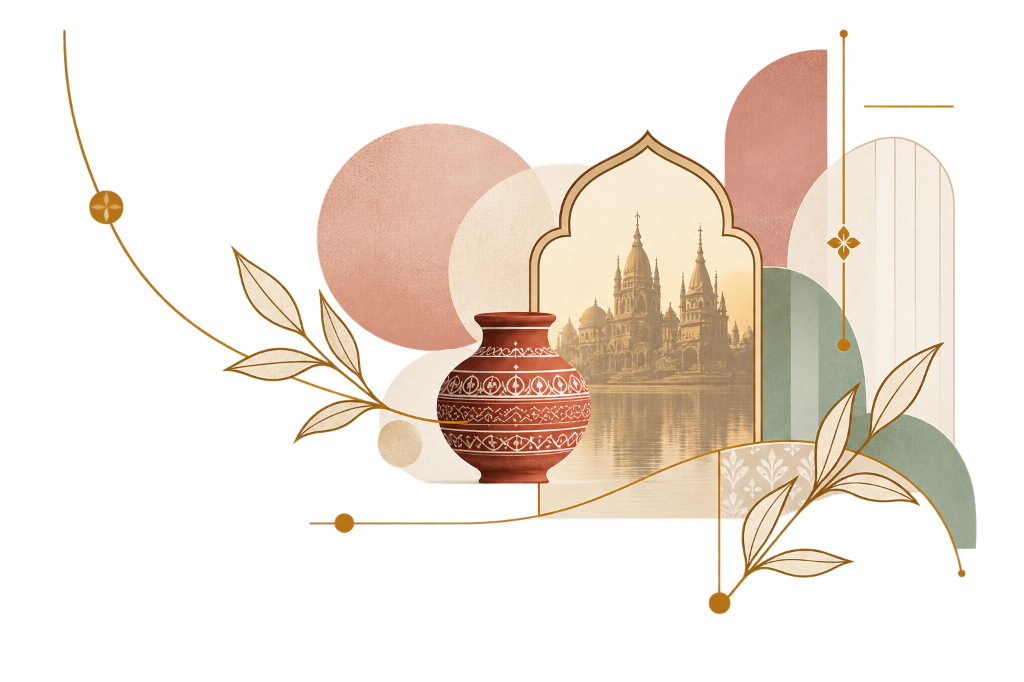
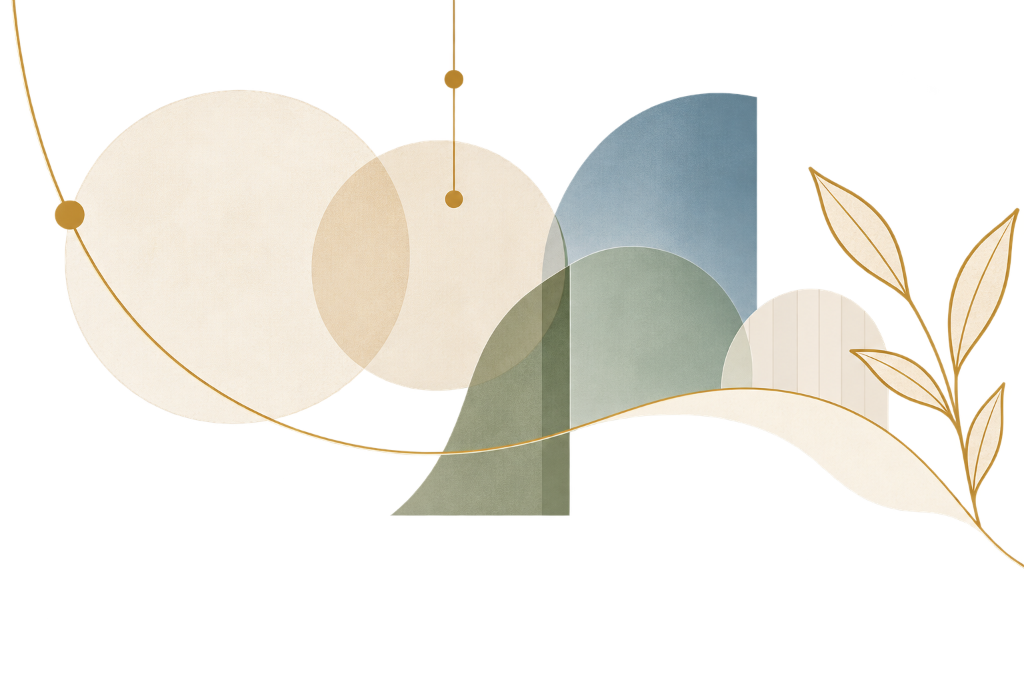
fix(projects): fix corner art placements, restore screen 2 artwork, and eliminate text overlap

diff --git a/src/pages/ProjectsPage.tsx b/src/pages/ProjectsPage.tsx
@@ -370,6 +370,22 @@ const ProjectsPage = () => {
           Learning takes different forms.
       ════════════════════════════════════════════════════════════════ */}
       <section id="skills-training-education" className="py-16 sm:py-20 lg:py-24 bg-background relative overflow-hidden">
+        {/* Decorative Corner Artworks for Screen 2 */}
+        <div className="absolute top-0 left-0 w-[220px] sm:w-[280px] lg:w-[320px] pointer-events-none select-none opacity-85 z-0">
+          <img
+            src="/images/projects/skills-art-left.png"
+            alt=""
+            className="w-full h-auto object-contain object-left-top"
+          />
+        </div>
+        <div className="absolute top-0 right-0 w-[380px] sm:w-[480px] lg:w-[580px] pointer-events-none select-none opacity-95 z-0">
+          <img
+            src="/images/projects/skills-art-right.png"
+            alt=""
+            className="w-full h-auto object-contain object-right-top"
+          />
+        </div>
+
         <div className="container mx-auto px-4 max-w-7xl relative z-10">
           
           {/* Section Header with Artwork & Quote Layout */}
@@ -404,8 +420,8 @@ const ProjectsPage = () => {
               </AnimeReveal>
             </div>
 
-            {/* Right Column: Abstract Art Composition & Editorial Quote */}
-            <div className="lg:col-span-5 relative flex flex-col justify-between items-end min-h-[220px]">
+            {/* Right Column: Editorial Quote & Cursive Calligraphy (Non-overlapping) */}
+            <div className="lg:col-span-5 relative flex flex-col justify-between items-end min-h-[200px]">
               {/* Top right label */}
               <div className="pl-3 border-l-2 border-[#D4AF37]/60 text-left mb-4 z-10">
                 <p className="text-[10px] font-mono tracking-[0.25em] font-bold text-[#8C6D46] uppercase leading-tight">
@@ -413,25 +429,16 @@ const ProjectsPage = () => {
                 </p>
               </div>
 
-              {/* Centered illustration background */}
-              <div className="absolute right-0 top-0 bottom-0 w-full max-w-[420px] pointer-events-none select-none opacity-90">
-                <img
-                  src="/images/projects/skills-header-art.png"
-                  alt="Abstract craft and botanical heritage artwork"
-                  className="w-full h-full object-contain object-right-top"
-                />
-              </div>
-
-              {/* Overlay Quote and Cursive Tagline */}
-              <div className="relative z-10 text-right pr-2 sm:pr-6 pt-4 mt-auto">
-                <div className="inline-block text-left mb-2">
-                  <p className="font-serif italic text-base sm:text-lg text-primary font-medium leading-snug">
-                    <span className="text-xl text-secondary mr-0.5 font-normal font-serif">“</span>
+              {/* Editorial Quote & Cursive Tagline with ample breathing room */}
+              <div className="relative z-10 text-right pr-2 sm:pr-6 mt-4 sm:mt-8">
+                <div className="inline-block text-left mb-3">
+                  <p className="font-serif italic text-base sm:text-lg lg:text-xl text-primary font-medium leading-snug">
+                    <span className="text-xl sm:text-2xl text-secondary mr-0.5 font-normal font-serif">“</span>
                     Different<br />
                     skills.<br />
                     Brighter<br />
                     tomorrows.
-                    <span className="text-xl text-secondary ml-0.5 font-normal font-serif">”</span>
+                    <span className="text-xl sm:text-2xl text-secondary ml-0.5 font-normal font-serif">”</span>
                   </p>
                 </div>
                 <div>
@@ -697,6 +704,30 @@ const ProjectsPage = () => {
           Keeping knowledge in practice.
       ════════════════════════════════════════════════════════════════ */}
       <section id="heritage-traditional-knowledge" className="py-16 sm:py-20 lg:py-24 bg-[#FAF7F2] relative overflow-hidden border-y border-[#EAE2D5]">
+        {/* Decorative Corner Artworks for Screen 3 */}
+        <div className="absolute top-0 left-0 w-[200px] sm:w-[260px] lg:w-[300px] pointer-events-none select-none opacity-85 z-0">
+          <img
+            src="/images/projects/heritage-art-left.png"
+            alt=""
+            className="w-full h-auto object-contain object-left-top"
+          />
+        </div>
+        <div className="absolute top-0 right-0 w-[380px] sm:w-[480px] lg:w-[560px] pointer-events-none select-none opacity-95 z-0">
+          <img
+            src="/images/projects/heritage-art-main.png"
+            alt=""
+            className="w-full h-auto object-contain object-right-top"
+          />
+        </div>
+        {/* Bottom-left corner botanical & arch flourish behind Card 01 */}
+        <div className="absolute bottom-0 left-0 w-[180px] sm:w-[220px] lg:w-[260px] pointer-events-none select-none opacity-75 z-0">
+          <img
+            src="/images/projects/inclusion-corner-bl.png"
+            alt=""
+            className="w-full h-auto object-contain object-left-bottom"
+          />
+        </div>
+
         <div className="container mx-auto px-4 max-w-7xl relative z-10">
           
           {/* Section Header with Artwork & Heritage Elements */}
@@ -739,8 +770,8 @@ const ProjectsPage = () => {
               </AnimeReveal>
             </div>
 
-            {/* Right Column: Abstract Art Composition & Calligraphy */}
-            <div className="lg:col-span-5 relative flex flex-col justify-between items-end min-h-[240px]">
+            {/* Right Column: Top Label & Calligraphy (Non-overlapping) */}
+            <div className="lg:col-span-5 relative flex flex-col justify-between items-end min-h-[220px]">
               {/* Top right label */}
               <div className="pl-3 border-l-2 border-[#D4AF37]/60 text-left mb-2 z-10">
                 <p className="text-[10px] font-mono tracking-[0.25em] font-bold text-[#8C6D46] uppercase leading-tight">
@@ -751,21 +782,12 @@ const ProjectsPage = () => {
                 </p>
               </div>
 
-              {/* Centered illustration background */}
-              <div className="absolute right-0 top-0 bottom-0 w-full max-w-[440px] pointer-events-none select-none opacity-95">
-                <img
-                  src="/images/projects/heritage-header-art.png"
-                  alt="Braj heritage craft, temple arch and pottery artwork"
-                  className="w-full h-full object-contain object-right-top"
-                />
-              </div>
-
               {/* Overlay Cursive Tagline */}
-              <div className="relative z-10 text-right pr-2 sm:pr-4 pt-4 mt-auto">
-                <span className="font-handwriting text-2xl sm:text-3xl text-[#B85D3B] italic leading-tight block">
+              <div className="relative z-10 text-right pr-2 sm:pr-4 mt-6 sm:mt-12">
+                <span className="font-handwriting text-2xl sm:text-3xl lg:text-4xl text-[#B85D3B] italic leading-tight block">
                   Rooted in practice.
                 </span>
-                <span className="font-handwriting text-2xl sm:text-3xl text-[#B85D3B] italic leading-tight block">
+                <span className="font-handwriting text-2xl sm:text-3xl lg:text-4xl text-[#B85D3B] italic leading-tight block mt-1.5">
                   Carried forward together.
                 </span>
               </div>
@@ -996,6 +1018,32 @@ const ProjectsPage = () => {
           Taking opportunity beyond conventional spaces.
       ════════════════════════════════════════════════════════════════ */}
       <section id="rehabilitation-health-digital" className="py-16 sm:py-20 lg:py-24 bg-[#FAF7F2] relative overflow-hidden border-y border-[#EAE2D5]">
+        {/* Distinct Corner Artworks for Screen 4 */}
+        {/* 1. Top-right sunlit archway with staircase */}
+        <div className="absolute top-0 right-0 w-[340px] sm:w-[420px] lg:w-[480px] pointer-events-none select-none opacity-95 z-0">
+          <img
+            src="/images/projects/inclusion-corner-tr.png"
+            alt=""
+            className="w-full h-auto object-contain object-right-top"
+          />
+        </div>
+        {/* 2. Bottom-left terracotta & green arches with hanging beads & leaves behind Card 01 */}
+        <div className="absolute bottom-0 left-0 w-[200px] sm:w-[260px] lg:w-[300px] pointer-events-none select-none opacity-90 z-0">
+          <img
+            src="/images/projects/inclusion-corner-bl.png"
+            alt=""
+            className="w-full h-auto object-contain object-left-bottom"
+          />
+        </div>
+        {/* 3. Bottom-right circle, green fan & golden leaf branch behind Card 03 */}
+        <div className="absolute bottom-0 right-0 w-[180px] sm:w-[240px] lg:w-[280px] pointer-events-none select-none opacity-90 z-0">
+          <img
+            src="/images/projects/inclusion-corner-br.png"
+            alt=""
+            className="w-full h-auto object-contain object-right-bottom"
+          />
+        </div>
+
         <div className="container mx-auto px-4 max-w-7xl relative z-10">
           
           {/* Section Header with Artwork & Inclusion Elements */}
@@ -1035,8 +1083,8 @@ const ProjectsPage = () => {
               </AnimeReveal>
             </div>
 
-            {/* Right Column: Abstract Art Composition & Calligraphy */}
-            <div className="lg:col-span-5 relative flex flex-col justify-between items-end min-h-[240px]">
+            {/* Right Column: Top Label & Calligraphy (Non-overlapping) */}
+            <div className="lg:col-span-5 relative flex flex-col justify-between items-end min-h-[220px]">
               {/* Top right label */}
               <div className="pl-3 border-l-2 border-[#D4AF37]/60 text-left mb-2 z-10">
                 <p className="text-[10px] font-mono tracking-[0.25em] font-bold text-[#8C6D46] uppercase leading-tight">
@@ -1047,18 +1095,9 @@ const ProjectsPage = () => {
                 </p>
               </div>
 
-              {/* Centered illustration background */}
-              <div className="absolute right-0 top-0 bottom-0 w-full max-w-[440px] pointer-events-none select-none opacity-95">
-                <img
-                  src="/images/projects/inclusion-header-art.png"
-                  alt="Opportunity beyond conventional spaces artwork with sunlit archway"
-                  className="w-full h-full object-contain object-right-top"
-                />
-              </div>
-
               {/* Overlay Cursive Tagline */}
-              <div className="relative z-10 text-right pr-2 sm:pr-4 pt-4 mt-auto">
-                <span className="font-handwriting text-2xl sm:text-3xl text-[#B85D3B] italic leading-tight block">
+              <div className="relative z-10 text-right pr-2 sm:pr-4 mt-6 sm:mt-12">
+                <span className="font-handwriting text-2xl sm:text-3xl lg:text-4xl text-[#B85D3B] italic leading-tight block">
                   Learning has no boundaries.
                 </span>
               </div>
